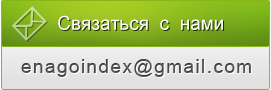
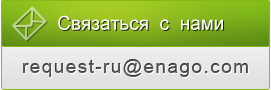
removed phone number, contact details of website www.ORES.SU and www.PRESCOPUS.COM
git-svn-id: http://192.168.0.6/repos/Marketing/Crimson_Websites/www.enago.ru@16545 4568d011-afc3-487c-8030-59b888a8bcde

Changed region(s): [[0.059, 0.6444, 0.9446, 0.8667]]

diff --git a/index.htm b/index.htm
@@ -90,13 +90,7 @@ function redirect()
     </div>
 	<div class="cta-top">
     	<div class="phone-detail">
-            <div class="icon floatLeft">
-                <img src="images/phone-icon.png" width="46" height="53" border="0" />
-            </div>
-            <div class="content floatLeft">
-                <div class="no">8 800 100 27 60</div>
-                <div class="time">Понедельник - Пятница,<br />с 9.00 до 19.00 Мск</div>
-            </div>
+
             <div class="cleaner"></div>
     	</div>
         <div class="clear"></div>
@@ -424,16 +418,8 @@ $.noConflict();
 			<span class="footerTitleSpan">Связаться с нами</span>
 				<ul>
                     <li><strong>e-mail</strong></li>
-                    <li><a href="mailto:request-ru@enago.com" class="footerLink">request-ru@enago.com</a><br />
-                    www.ores.su, <a href="mailto:russia@prescopus.com" class="footerLink">russia@prescopus.com</a>,</li>  
-      
+                    <li><a href="mailto:request-ru@enago.com" class="footerLink">request-ru@enago.com</a</li>        
 				</ul>
-                <ul>
-                    <li><strong>телефон</strong></li>
-                    <li><span class="no">8 800 100 27 60</span><br />
-                    Понедельник-Пятница, <br />
-                    с 9.00 до 19.00 Мск</li>  
-                </ul>           
         </div>
 	</div>
   <!-- footerListContainer --> 

diff --git a/inc_footer.htm b/inc_footer.htm
@@ -18,16 +18,8 @@
 			<span class="footerTitleSpan">Связаться с нами</span>
 				<ul>
                     <li><strong>e-mail</strong></li>
-                    <li><a href="mailto:request-ru@enago.com" class="footerLink">request-ru@enago.com</a><br />
-                    www.ores.su, <a href="mailto:russia@prescopus.com" class="footerLink">russia@prescopus.com</a>,</li>  
-      
+                    <li><a href="mailto:request-ru@enago.com" class="footerLink">request-ru@enago.com</a></li>        
 				</ul>
-                <ul>
-                    <li><strong>телефон</strong></li>
-                    <li><span class="no">8 800 100 27 60</span><br />
-                    Понедельник-Пятница, <br />
-                    с 9.00 до 19.00 Мск</li>  
-                </ul>           
         </div>
 	</div>
   <!-- footerListContainer --> 

diff --git a/news.htm b/news.htm
@@ -184,7 +184,7 @@ $a = "Английское редактирование, Английский р
       </div>
        <div id="calltoaction"><img src="images/contact-us_1.png" alt="Contact Enago, Научные Английское редактирование, как опубликовать статью в журнале" width="271" height="90" border="0" usemap="#Map" />
     <map name="Map" id="Map">
-      <area shape="rect" coords="19,53,255,82" href="mailto:enagoindex@gmail.com" alt="Enago E-mail, Английское редактирование" />
+      <area shape="rect" coords="19,53,255,82" href="mailto:request-ru@enago.com" alt="Enago E-mail, Английское редактирование" />
     </map>
   </div>
     </div>

diff --git a/Greetings.htm b/Greetings.htm
@@ -133,7 +133,7 @@ $a = "Английское редактирование, Английский р
       </div>
        <div id="calltoaction"><img src="images/contact-us_1.png" alt="Английское редактор, где можно опубликовать научную статью, где опубликовать научную статью" width="271" height="90" border="0" usemap="#Map" />
     <map name="Map" id="Map">
-      <area shape="rect" coords="19,53,256,82" href="mailto:enagoindex@gmail.com" alt="E-mail Enago" />
+      <area shape="rect" coords="19,53,256,82" href="mailto:request-ru@enago.com" alt="E-mail Enago" />
     </map>
   </div>
     </div>

diff --git a/terms.htm b/terms.htm
@@ -227,7 +227,7 @@ $a = "Английское редактирование, Английский р
 
        <div id="calltoaction"><img src="images/contact-us_1.png" alt="Enago Contact, Enago English Editors" width="271" height="90" border="0" usemap="#Map" />
     <map name="Map" id="Map">
-      <area shape="rect" coords="19,53,254,82" href="mailto:enagoindex@gmail.com" alt="Английское корректура, Научные редактирование" />
+      <area shape="rect" coords="19,53,254,82" href="mailto:request-ru@enago.com" alt="Английское корректура, Научные редактирование" />
     </map>
   </div>
 

diff --git a/inc_header.htm b/inc_header.htm
@@ -39,14 +39,7 @@ if(is_null($a)){?>
         </div>
     </div>
 	<div class="cta-top">
-    	<div class="phone-detail">
-            <div class="icon floatLeft">
-                <img src="images/phone-icon.png" width="46" height="53" border="0" />
-            </div>
-            <div class="content floatLeft">
-                <div class="no">8 800 100 27 60</div>
-                <div class="time">Понедельник - Пятница,<br />с 9.00 до 19.00 Мск</div>
-            </div>
+    	<div class="phone-detail">         
             <div class="cleaner"></div>
     	</div>
         <div class="clear"></div>

diff --git a/css/common.css b/css/common.css
@@ -433,7 +433,7 @@ body {
 }
 
 .phone-detail {
-    margin-bottom: 8px;
+    margin-bottom: 8px; height:64px;
 }
 #headerContainer #enagoThumbsContainer {
 	padding-right:0px;
@@ -3933,7 +3933,7 @@ sup{font-size:45%; vertical-align:top}
 .callus-banner {
     background: url("../images/left-sprite.png") no-repeat scroll 0 -385px transparent;
     display: block;
-    height: 180px;
+    height: 145px;
     margin-left: 0;
     margin-top: 15px;
     width: 215px;

diff --git a/inc_leftbottom.htm b/inc_leftbottom.htm
@@ -23,5 +23,5 @@ Grad. Student (Doctor Course)</p>
 </tbody></table>
 <!-- testimonial -->    
     <a href="30.htm" class="leftbanner_4"><img src="images/spacer.gif" width="209" height="49" border="0" alt="Payment Method"/></a>    
-    <a class="callus-banner"><img src="images/spacer.gif" width="215" height="107" border="0" alt=""/></a>                                       
+                                        
 </div>  

diff --git a/css/common-index.css b/css/common-index.css
@@ -426,7 +426,7 @@ body {
 }
 
 .phone-detail {
-    margin-bottom: 8px;
+    margin-bottom: 8px; height:64px
 }
 #headerContainer #enagoThumbsContainer {
 	padding-right:0px;
